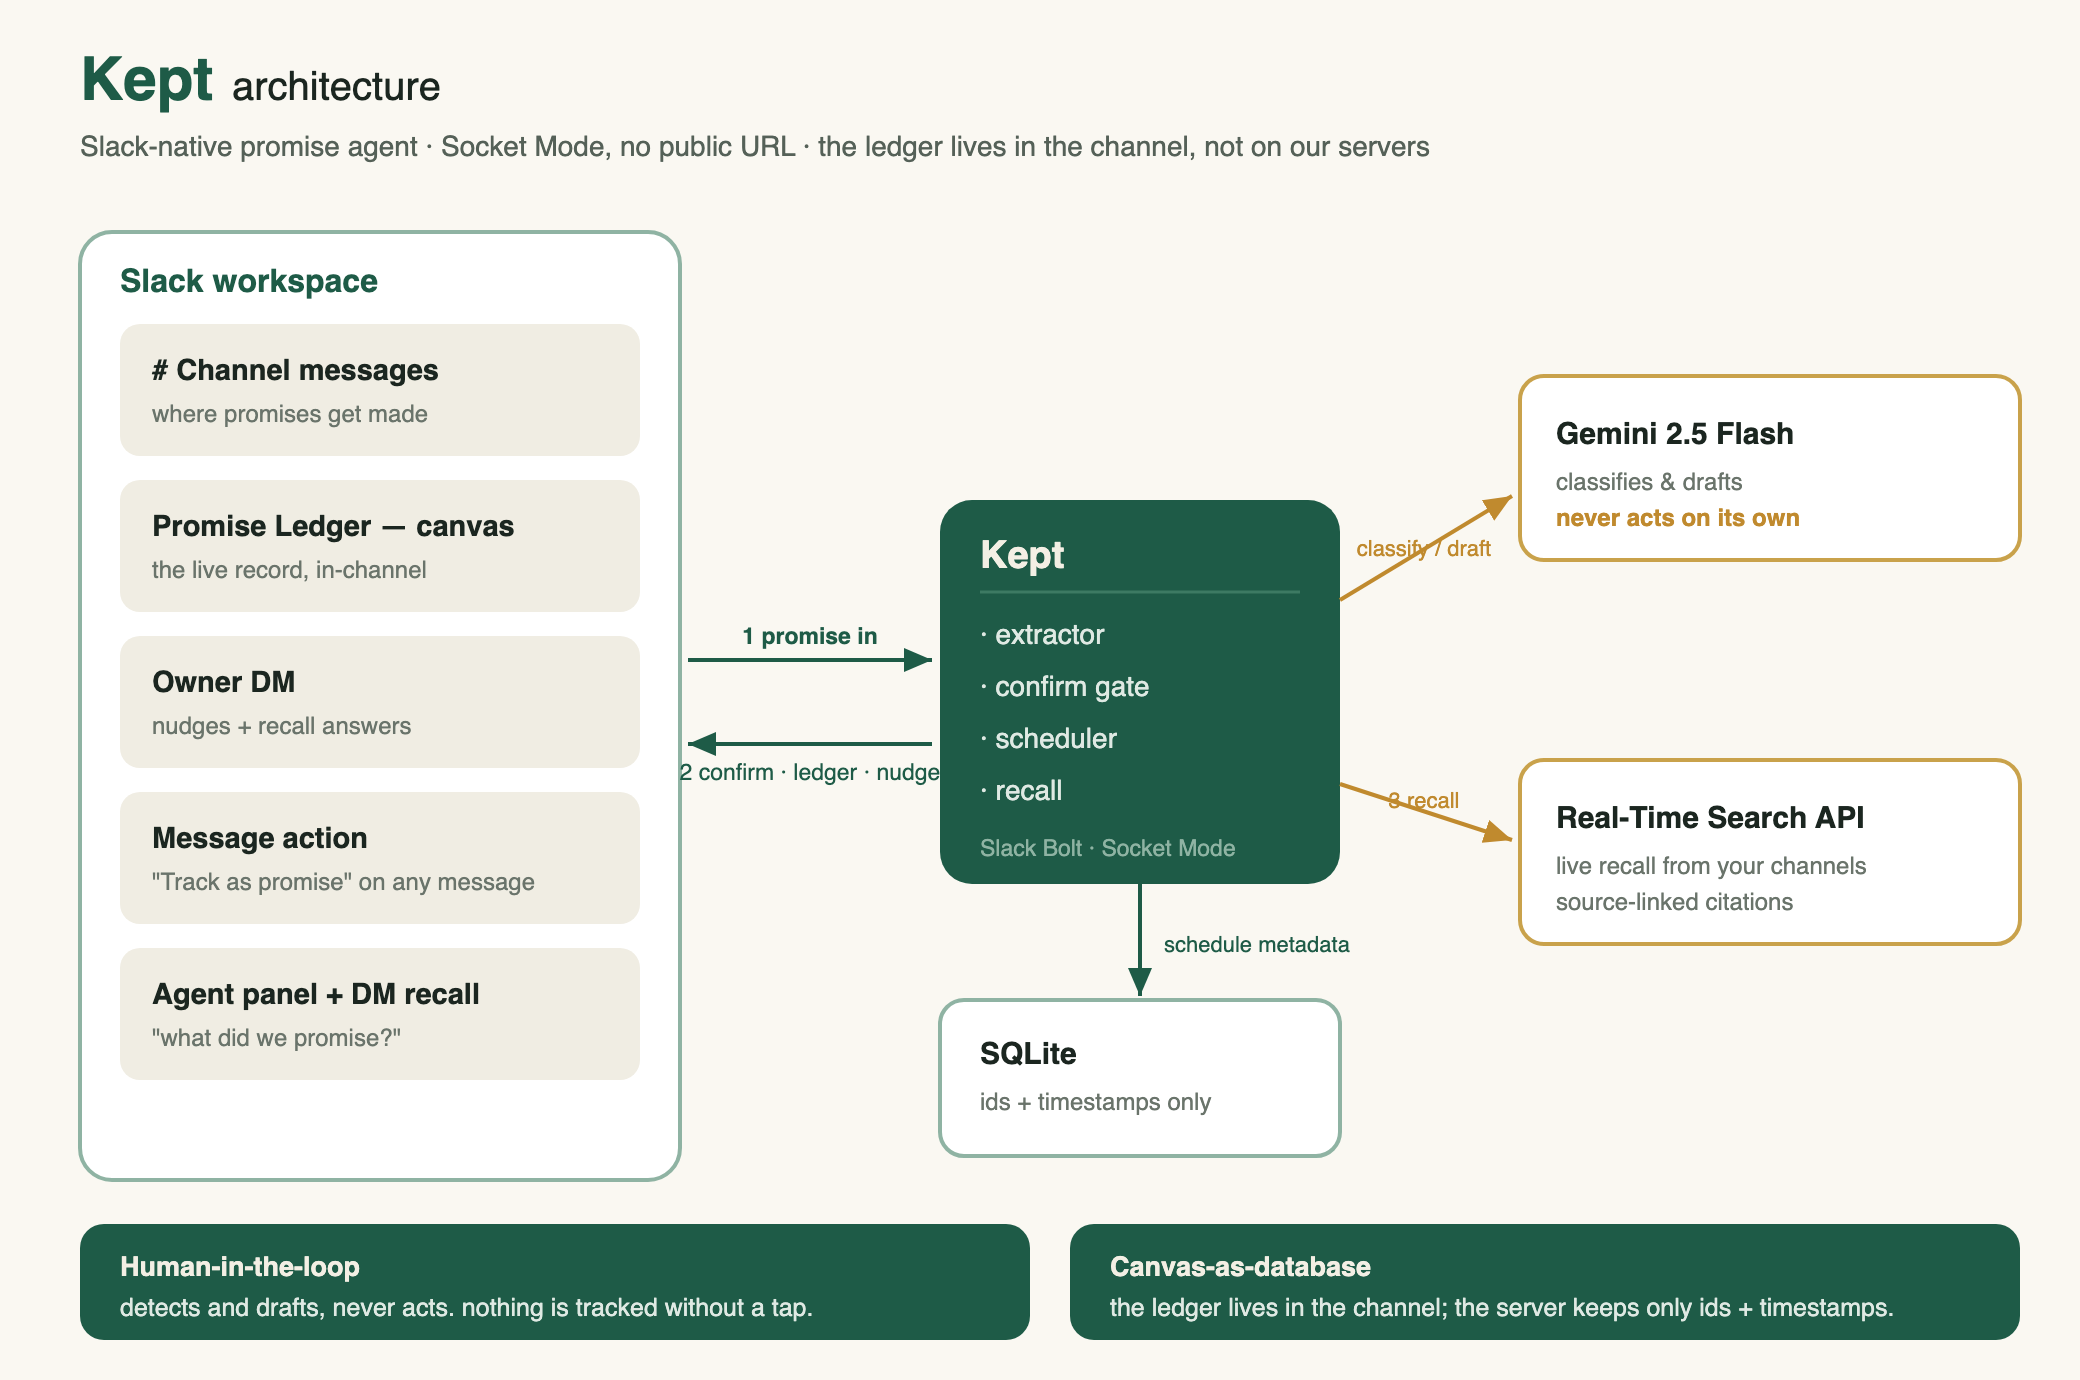
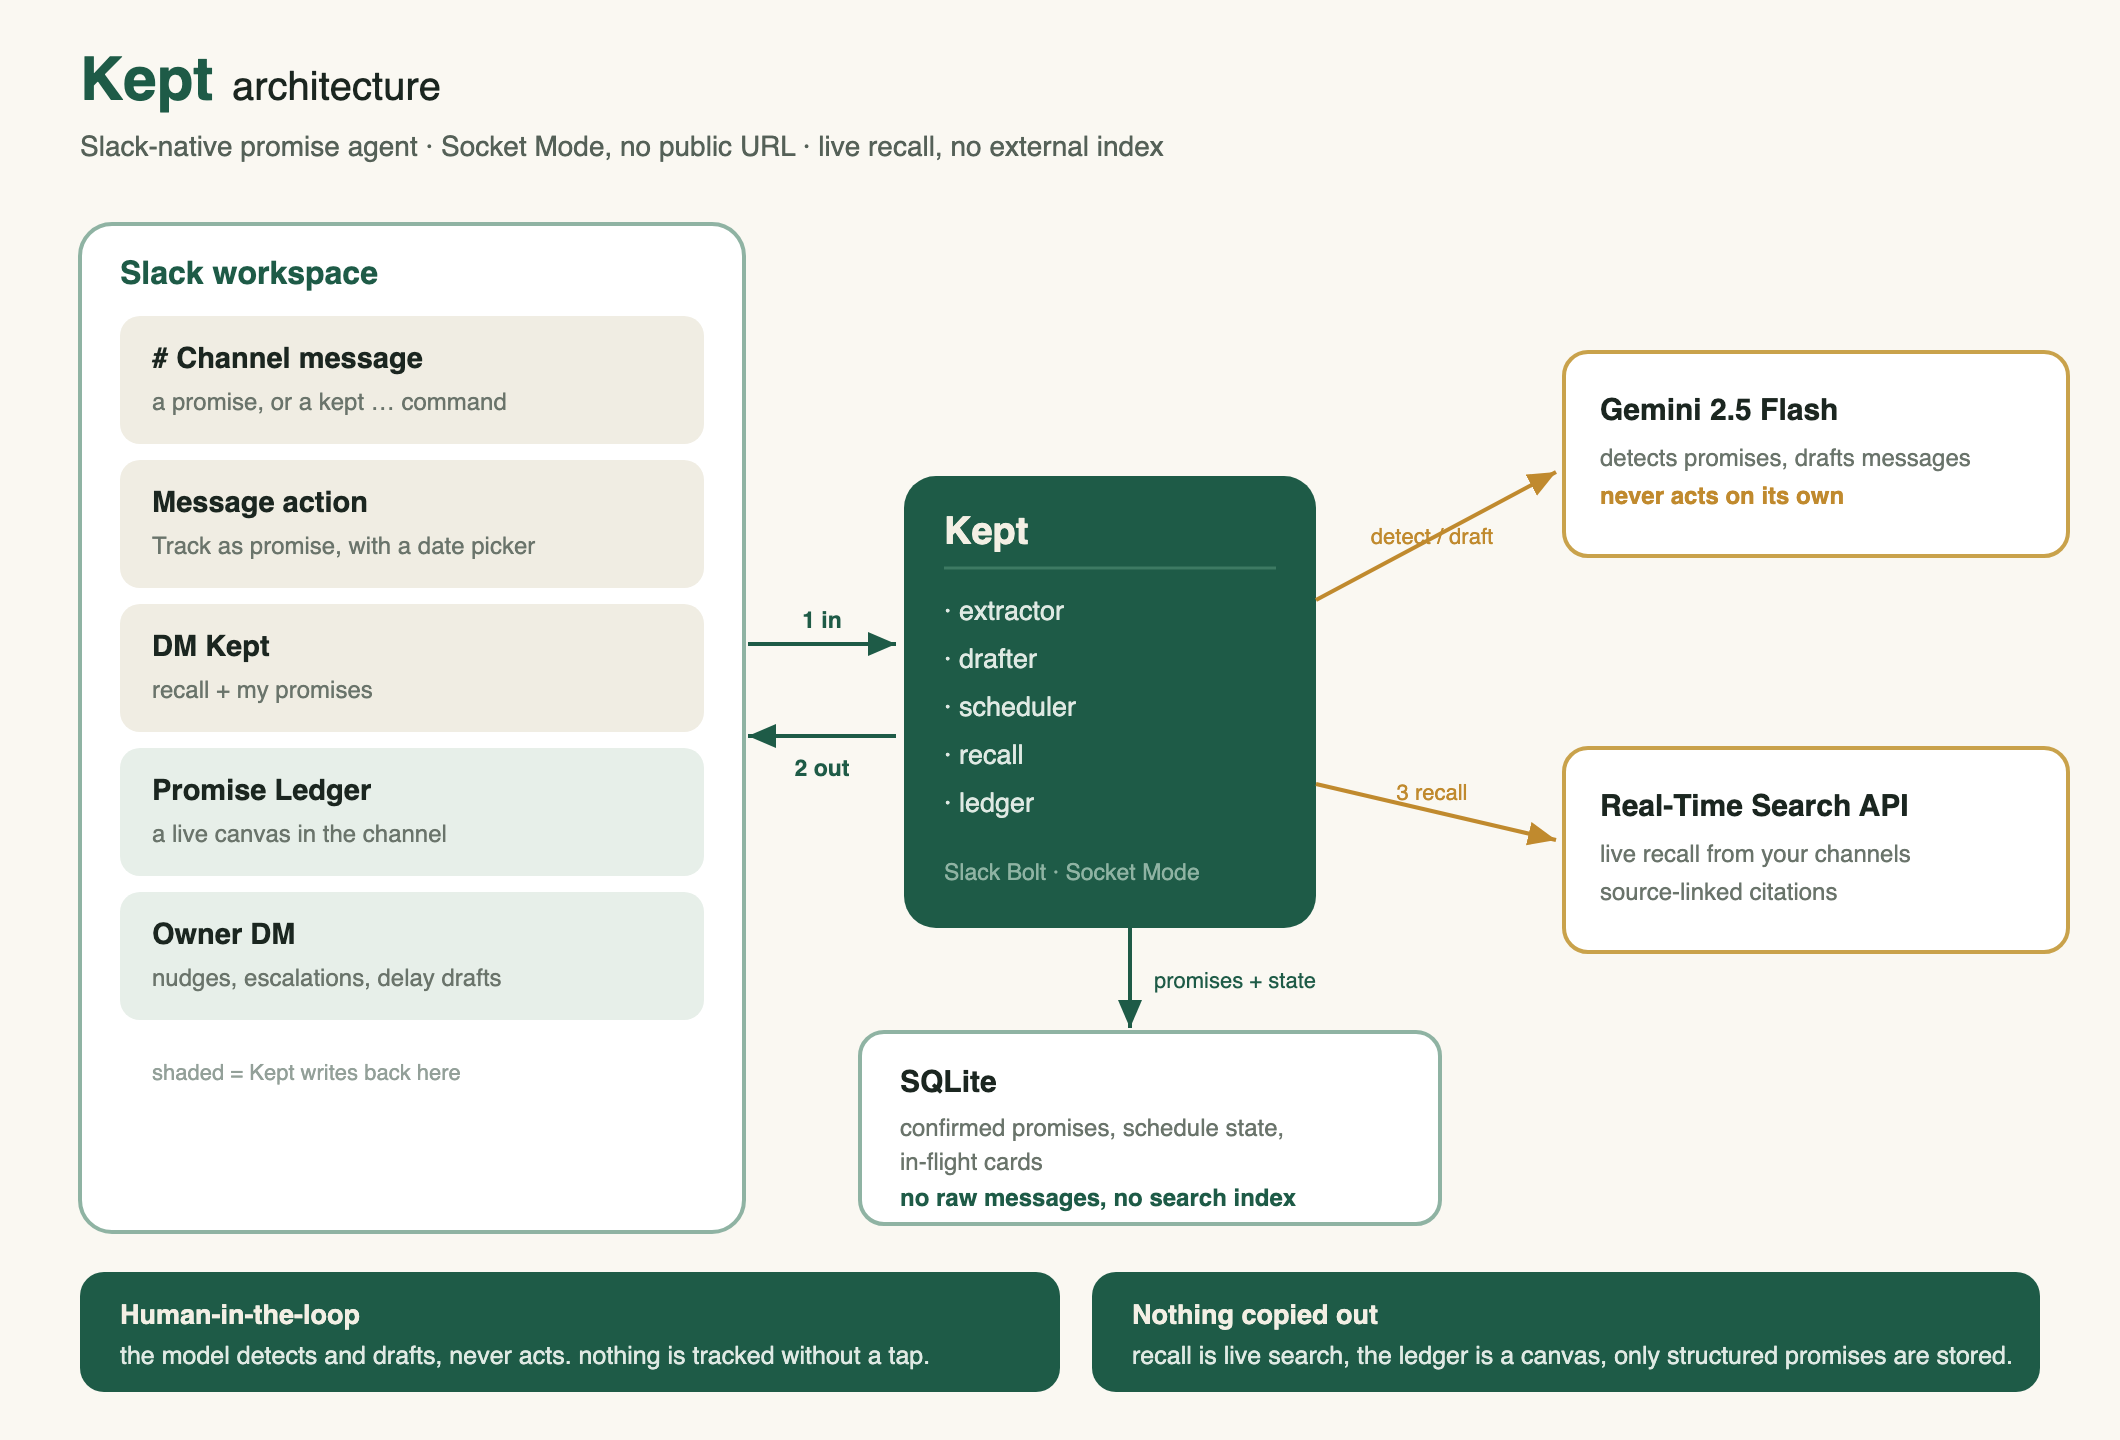
git add README.md assets/kept-architecture.svg assets/kept-architecture.png git commit -m "docs: usage guide in README, regenerate architecture diagram to match build"

diff --git a/README.md b/README.md
@@ -22,6 +22,29 @@ No separate app, no dashboard to check. The tracking lives where the work alread
 - Answers *what did we promise?* live from the Real-Time Search API, with source links.
 - `kept digest` drafts a weekly client update from the ledger; `kept stats` shows the kept-rate per person. DM `my promises` to settle yours.
 
+## Using Kept
+
+Once Kept is in a channel, you mostly just talk. Everything below is how you trigger each thing.
+
+**In the channel**
+- Make a promise: type `I'll send the report by Monday`. Kept spots it and offers to track it; one tap confirms.
+- Give it a time: `I'll send the numbers today at 5pm`. Kept nudges you at 5pm, not before.
+- Track any message (yours, a teammate's, a client's): hover it, click `...`, choose *Track as promise*, then confirm or adjust the date.
+- `kept digest` drafts a weekly client update from the ledger.
+- `kept stats` shows the kept-rate, who is keeping their promises.
+- `kept help` lists everything.
+
+**The ledger**
+- Open the *Promises* tab at the top of the channel. That canvas is the live record, who owes what, to whom, by when, with an Overdue section. It updates itself on every change.
+
+**DM Kept directly**
+- `my promises` lists your open ones, each with Mark kept, Reschedule, and Edit buttons.
+- `what did we promise about the report?` answers live from the channel, with links to the source messages.
+
+**On its own**
+- Nudges the owner privately when a promise is due, and again, more sharply, if it blows past the deadline.
+- When a promise slips, drafts the honest "running late" message for a human to send. Kept never sends anything itself.
+
 ## Quickstart
 
 Prereqs: Python 3.11+, a Slack developer sandbox, a free Gemini API key.